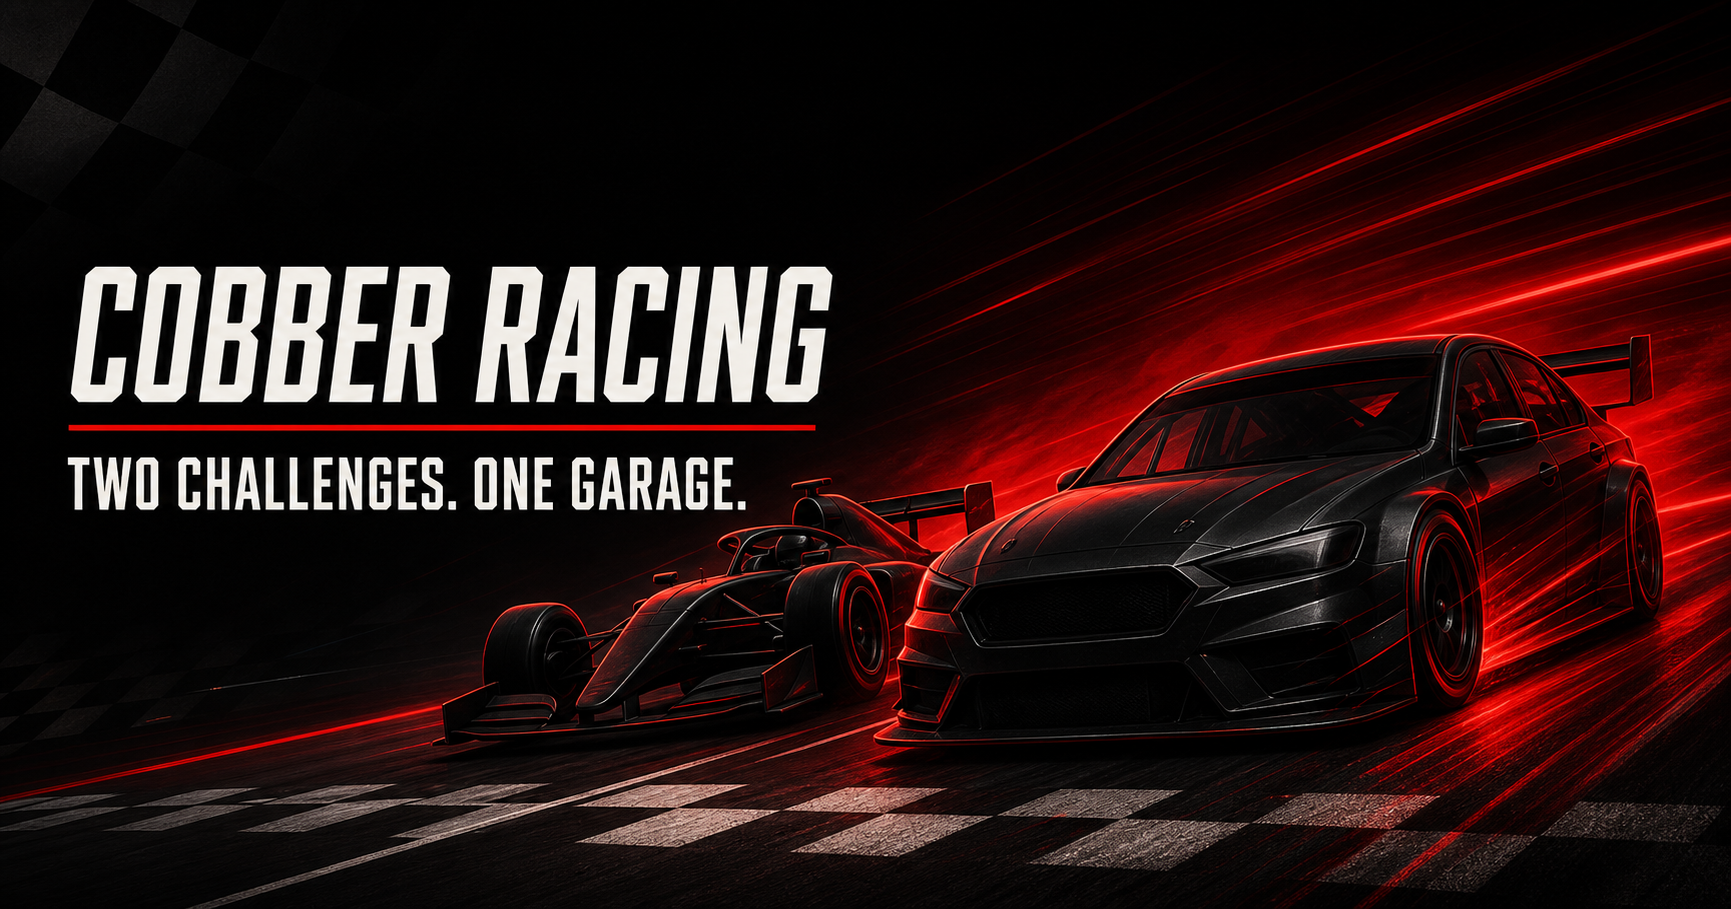
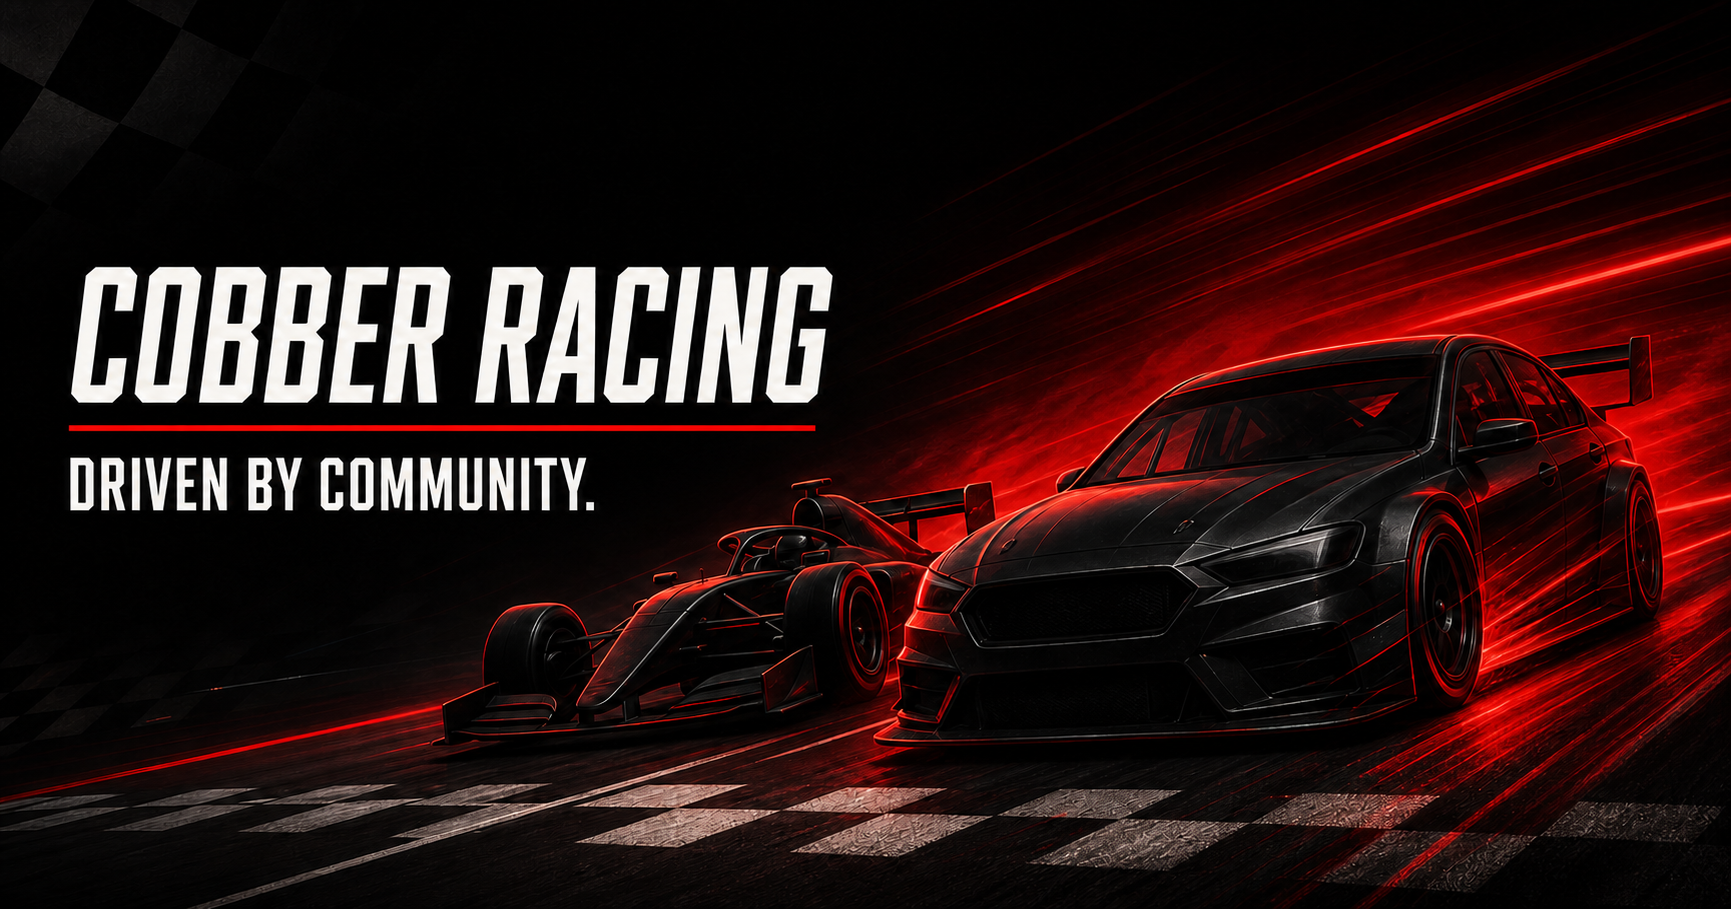
Restore Driven by Community motto

diff --git a/index.html b/index.html
@@ -4,8 +4,8 @@
   <meta charset="utf-8">
   <meta name="viewport" content="width=device-width, initial-scale=1">
   <meta name="description" content="Cobber Racing daily Tatuus FA01 and weekly V8 Supercar challenges on Assetto Corsa.">
-  <meta property="og:title" content="Cobber Racing | Two Challenges. One Garage.">
-  <meta property="og:description" content="Race the daily Tatuus FA01 challenge or take on the weekly V8 Supercar challenge.">
+  <meta property="og:title" content="Cobber Racing | Driven by Community">
+  <meta property="og:description" content="Community-powered Assetto Corsa racing: a daily Tatuus FA01 challenge and a weekly V8 Supercar challenge.">
   <meta property="og:image" content="og.png">
   <title>Cobber Racing | Assetto Corsa Challenges</title>
   <link rel="preconnect" href="https://fonts.googleapis.com">
@@ -32,8 +32,8 @@
     <section class="hero" aria-labelledby="hero-title">
       <div class="hero-copy">
         <p class="eyebrow">Assetto Corsa Community Racing</p>
-        <h1 id="hero-title" class="display-title">Two challenges.<br><span>One garage.</span></h1>
-        <p class="hero-intro">Jump into the daily Tatuus FA01 sprint or spend the week hunting tenths in a V8 Supercar. Set a clean lap, climb the board and see how you stack up against the Cobber Racing community.</p>
+        <h1 id="hero-title" class="display-title">Driven by<br><span>community.</span></h1>
+        <p class="hero-intro">Cobber Racing is built by the people who race it. Jump into the daily Tatuus FA01 sprint or spend the week hunting tenths in a V8 Supercar, then set a clean lap and climb the board together.</p>
       </div>
     </section>
 